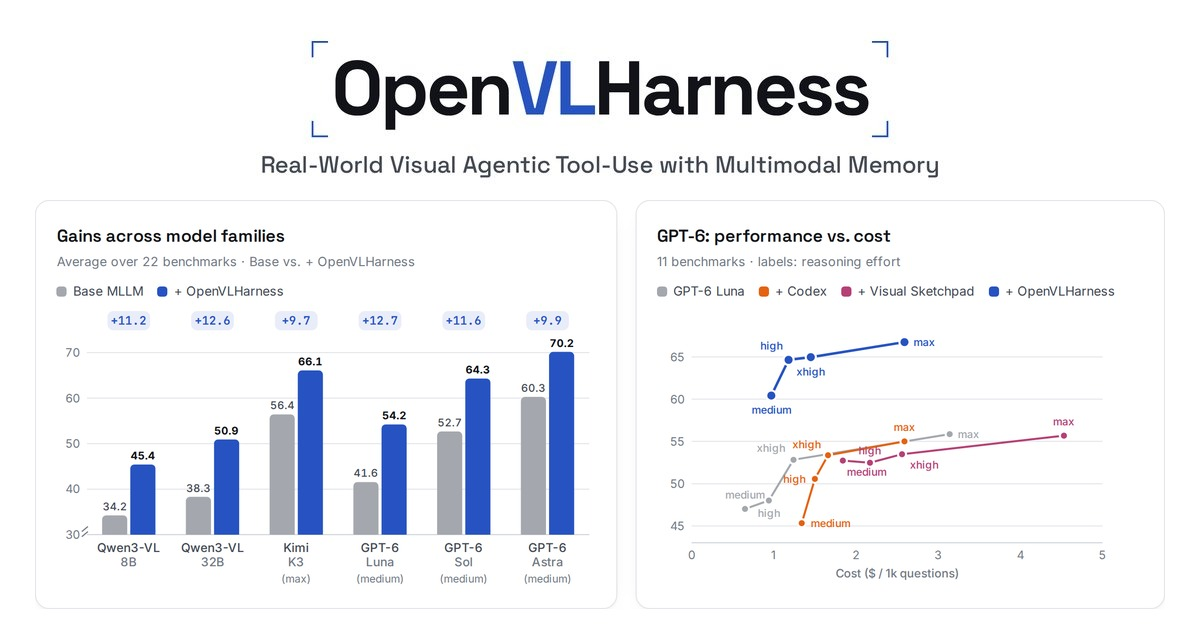
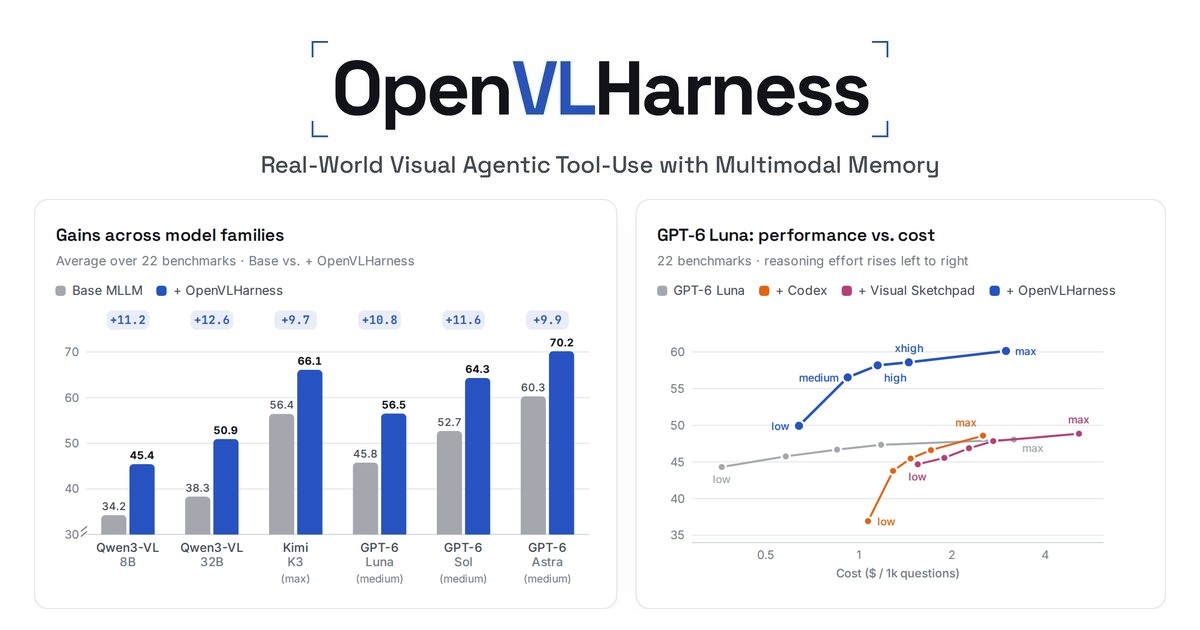
Effort chart: full splits of all 22 benchmarks at five efforts
The GPT-6 Luna performance-vs-cost card now shows the full-split sweep (low,
medium, high, xhigh, max on all 22 benchmarks) instead of the 11-benchmark,
<=500-question study. Cost uses a log axis as in the paper's Fig. 1c, and both
axis ranges follow the data. Every OpenVLHarness point is labelled; the baselines
only at their endpoints, since each curve rises monotonically in cost. Rebuilds
og.jpg from the page and adds scripts/shot_hero.py (light and dark hero
screenshots for the code repository README) and scripts/build_og.py.
Bumps main.js?v and data.js?v.

diff --git a/static/js/main.js b/static/js/main.js
@@ -224,24 +224,32 @@
   /* ================================================================ HERO: score vs. cost (paper Fig. 1c) */
   const lg = $('#paretoLegend');
   D.EFFORT.forEach(s => lg.appendChild(H('span', {}, `<i style="background:var(${s.color})"></i>${s.name}`)));
-  // effort-label placement per series and point: [dx, dy, anchor]
+  // effort-label placement per series and point: [dx, dy, anchor]; null = no label. Every OpenVLHarness point is
+  // labelled; the clustered baselines only at their endpoints (low, max), since each curve rises monotonically in cost.
   const ELAB = {
-    base: [[0, -10, 'middle'], [0, 16, 'middle'], [-8, -8, 'end'], [8, 4, 'start']],
-    codex: [[9, 4, 'start'], [-9, 4, 'end'], [-7, -7, 'end'], [0, -10, 'middle']],
-    vs: [[4, 15, 'start'], [0, -8, 'middle'], [8, 14, 'start'], [0, -10, 'middle']],
-    ours: [[0, 18, 'middle'], [-6, -10, 'end'], [0, 18, 'middle'], [9, 4, 'start']],
+    base: [[0, 16, 'middle'], null, null, null, [8, 12, 'start']],
+    codex: [[9, 4, 'start'], null, null, null, [-6, -9, 'end']],
+    vs: [[0, 16, 'middle'], null, null, null, [0, -10, 'middle']],
+    ours: [[-9, 4, 'end'], [-9, 4, 'end'], [6, 16, 'start'], [0, -10, 'middle'], [9, 4, 'start']],
   };
   chart($('#heroPareto'), (el, W) => {
     const Hh = W < 480 ? 270 : 300;
     const m = { l: 34, r: 40, t: 14, b: 40 };
     const svg = S('svg', { viewBox: `0 0 ${W} ${Hh}`, height: Hh }, el);
-    const x = lin(0, 5, m.l, W - m.r);
-    const y = lin(43, 69, Hh - m.b, m.t);
-    [43, 45, 50, 55, 60, 65].forEach(v => {
-      S('line', { x1: m.l, x2: W - m.r, y1: y(v), y2: y(v), class: v === 43 ? 'base-line' : 'grid-line' }, svg);
-      if (v !== 43) S('text', { x: m.l - 7, y: y(v) + 4, 'text-anchor': 'end', class: 'ax-label', text: v }, svg);
+    // Log-scaled cost axis (as in the paper's Fig. 1c); both ranges follow the data.
+    const costs = D.EFFORT.flatMap(s => s.cost), scores = D.EFFORT.flatMap(s => s.score);
+    const cLo = Math.min(...costs) / 1.25, cHi = Math.max(...costs) * 1.2;
+    const x = v => m.l + (Math.log(v) - Math.log(cLo)) / (Math.log(cHi) - Math.log(cLo)) * (W - m.r - m.l);
+    const yLo = Math.floor(Math.min(...scores) - 2), yHi = Math.ceil(Math.max(...scores) + 3);
+    const y = lin(yLo, yHi, Hh - m.b, m.t);
+    const yTicks = [];
+    for (let v = Math.ceil((yLo + 1) / 5) * 5; v < yHi; v += 5) yTicks.push(v);
+    [yLo, ...yTicks].forEach(v => {
+      S('line', { x1: m.l, x2: W - m.r, y1: y(v), y2: y(v), class: v === yLo ? 'base-line' : 'grid-line' }, svg);
+      if (v !== yLo) S('text', { x: m.l - 7, y: y(v) + 4, 'text-anchor': 'end', class: 'ax-label', text: v }, svg);
     });
-    [0, 1, 2, 3, 4, 5].forEach(v => S('text', { x: x(v), y: Hh - m.b + 16, 'text-anchor': 'middle', class: 'ax-label', text: v }, svg));
+    [0.25, 0.5, 1, 2, 4, 8].filter(v => v >= cLo && v <= cHi)
+      .forEach(v => S('text', { x: x(v), y: Hh - m.b + 16, 'text-anchor': 'middle', class: 'ax-label', text: v }, svg));
     S('text', { x: (m.l + W - m.r) / 2, y: Hh - 6, 'text-anchor': 'middle', class: 'ax-title', text: 'Cost ($ / 1k questions)' }, svg);
     D.EFFORT.forEach((s, si) => {
       const isOurs = s.key === 'ours';
@@ -250,8 +258,11 @@
       s.cost.forEach((c, i) => {
         const cx = x(c), cy = y(s.score[i]);
         S('circle', { cx, cy, r: isOurs ? 5 : 4, class: 'anim-pop', style: `fill:var(${s.color});stroke:var(--surface);stroke-width:2;transition-delay:${400 + si * 150 + i * 110}ms` }, svg);
-        const [dx, dy, an] = ELAB[s.key][i];
-        S('text', { x: cx + dx, y: cy + dy, 'text-anchor': an, class: 'eff-label anim-fade', style: `fill:var(${s.color});transition-delay:${900 + si * 150}ms`, text: D.EFFORTS[i] }, svg);
+        const lab = (ELAB[s.key] || [])[i];
+        if (lab) {
+          const [dx, dy, an] = lab;
+          S('text', { x: cx + dx, y: cy + dy, 'text-anchor': an, class: 'eff-label anim-fade', style: `fill:var(${s.color});transition-delay:${900 + si * 150}ms`, text: D.EFFORTS[i] }, svg);
+        }
         const hit = S('circle', { cx, cy, r: 11, fill: 'transparent' }, svg);
         hover(hit, `<b>${s.name}</b> · ${D.EFFORTS[i]} effort<br>score <b>${s.score[i].toFixed(2)}</b> · $${c.toFixed(2)} / 1k questions`);
       });

diff --git a/static/js/data.js b/static/js/data.js
@@ -1,6 +1,6 @@
 /* All numbers transcribed from the paper.
    Table 1 (Qwen3-VL, GPT-6 Luna/Astra), Table 6 (GPT-5, GPT-6 Sol, Kimi K3); 22 datasets, Table 2 (ablation),
-   Table 8 (training-based baselines), Table 12 (reasoning effort), Table 20 (remedy channels). */
+   Table 8 (training-based baselines), Tables 12-13 (reasoning effort, full splits), remedy channels. */
 window.OVH = (function () {
   const DOMAINS = [
     { name: 'Counting & Grounding', short: 'Count & Ground', rows: ['CountQA', 'FSC-147', 'OdinW-13-All', 'FSCD-147', 'FSCD-LVIS'] },
@@ -64,13 +64,13 @@ Average|34.24 31.80 30.49 45.41|38.30 36.79 35.95 50.92|45.76 45.55 43.78 56.52|
     return { id, name: g.name, base: TABLE.Average[id].Base.v, ours: TABLE.Average[id].Ours.v };
   });
 
-  // Table 12: GPT-6 Luna, 11 datasets, reasoning effort medium/high/xhigh/max
-  const EFFORTS = ['medium', 'high', 'xhigh', 'max'];
+  // Paper Table {tab:luna_effort_scaling}: GPT-6 Luna, full splits of all 22 benchmarks, reasoning effort low/medium/high/xhigh/max
+  const EFFORTS = ['low', 'medium', 'high', 'xhigh', 'max'];
   const EFFORT = [
-    { key: 'base', name: 'GPT-6 Luna', color: '--s-base', score: [47.01, 48.01, 52.83, 55.87], cost: [0.65, 0.94, 1.24, 3.14] },
-    { key: 'codex', name: '+ Codex', color: '--s-codex', score: [45.32, 50.57, 53.37, 55.01], cost: [1.34, 1.50, 1.66, 2.59] },
-    { key: 'vs', name: '+ Visual Sketchpad', color: '--s-vs', score: [52.73, 52.48, 53.49, 55.69], cost: [1.84, 2.17, 2.56, 4.53] },
-    { key: 'ours', name: '+ OpenVLHarness', color: '--s-ours', score: [60.43, 64.66, 64.98, 66.76], cost: [0.97, 1.18, 1.45, 2.59] },
+    { key: 'base', name: 'GPT-6 Luna', color: '--s-base', score: [44.31, 45.76, 46.68, 47.33, 48.04], cost: [0.36, 0.58, 0.85, 1.18, 3.17] },
+    { key: 'codex', name: '+ Codex', color: '--s-codex', score: [36.92, 43.78, 45.46, 46.61, 48.58], cost: [1.07, 1.29, 1.47, 1.71, 2.52] },
+    { key: 'vs', name: '+ Visual Sketchpad', color: '--s-vs', score: [44.67, 45.55, 46.86, 47.83, 48.84], cost: [1.55, 1.89, 2.27, 2.72, 5.15] },
+    { key: 'ours', name: '+ OpenVLHarness', color: '--s-ours', score: [49.92, 56.52, 58.16, 58.57, 60.12], cost: [0.64, 0.92, 1.15, 1.45, 2.99] },
   ];
 
   // Harness comparisons (Table 1 averages + Table 8)

diff --git a/index.html b/index.html
@@ -12,7 +12,7 @@
   <meta property="og:image" content="https://openvlharness.github.io/static/og.jpg">
   <meta property="og:image:width" content="1200">
   <meta property="og:image:height" content="630">
-  <meta property="og:image:alt" content="OpenVLHarness: average gains across six model families and GPT-6 performance vs. cost">
+  <meta property="og:image:alt" content="OpenVLHarness: average gains across six model families and GPT-6 Luna performance vs. cost">
   <meta name="twitter:card" content="summary_large_image">
   <meta name="twitter:title" content="OpenVLHarness: Real-World Visual Agentic Tool-Use with Multimodal Memory">
   <meta name="twitter:description" content="A capability layer + persistent multimodal memory lifts six MLLM backbones by 9.7–12.6 points across 22 benchmarks.">
@@ -132,9 +132,9 @@
         <div class="chart" id="heroBars" role="img" aria-label="Grouped bar chart: average score of six backbones with and without OpenVLHarness"></div>
       </div>
       <div class="card chart-card reveal">
-        <div class="chart-title">GPT-6: performance vs. cost <span class="chart-sub">11 benchmarks · labels: reasoning effort</span></div>
+        <div class="chart-title">GPT-6 Luna: performance vs. cost <span class="chart-sub">22 benchmarks · reasoning effort rises left to right</span></div>
         <div class="legend" id="paretoLegend"></div>
-        <div class="chart" id="heroPareto" role="img" aria-label="Line chart of average score versus model-token cost for four methods across four reasoning-effort settings"></div>
+        <div class="chart" id="heroPareto" role="img" aria-label="Line chart of average score versus model-token cost for four methods across five reasoning-effort settings"></div>
       </div>
     </div>
   </div>
@@ -476,9 +476,9 @@
 </footer>
 
 <div class="tip" id="tip"></div>
-<script src="static/js/data.js?v=20"></script>
+<script src="static/js/data.js?v=21"></script>
 <script src="static/js/examples.js?v=12"></script>
-<script src="static/js/main.js?v=44"></script>
+<script src="static/js/main.js?v=45"></script>
 <script src="static/js/player.js?v=20"></script>
 <script type="module" src="static/js/demo.js?v=14"></script>
 </body>

diff --git a/scripts/shot_hero.py b/scripts/shot_hero.py
@@ -1,0 +1,41 @@
+"""Screenshot the hero charts (light and dark) for the code repository's README teaser.
+
+Usage: python scripts/shot_hero.py <site_dir> <out_dir> [scale]   (needs Playwright with Chromium)
+Writes hero_light.png and hero_dark.png at `scale` device pixels per CSS pixel (README uses 4). The site picks its
+theme from localStorage['ovh-theme'], so each theme is set there before the page loads. Exits non-zero if the
+page logs a JavaScript error.
+"""
+import sys
+from pathlib import Path
+from playwright.sync_api import sync_playwright
+
+site, out_dir = Path(sys.argv[1]), Path(sys.argv[2])
+scale = int(sys.argv[3]) if len(sys.argv) > 3 else 4
+out_dir.mkdir(parents=True, exist_ok=True)
+errors = []
+with sync_playwright() as p:
+    browser = p.chromium.launch()
+    for theme in ("light", "dark"):
+        context = browser.new_context(viewport={"width": 1280, "height": 1000}, device_scale_factor=scale,
+                                      reduced_motion="reduce", color_scheme=theme)
+        context.add_init_script(f"try {{ localStorage.setItem('ovh-theme', '{theme}'); }} catch (e) {{}}")
+        page = context.new_page()
+        page.on("pageerror", lambda e: errors.append(f"{theme}: {e}"))
+        page.goto((site / "index.html").resolve().as_uri(), wait_until="networkidle")
+        page.evaluate("document.fonts.ready")
+        charts = page.locator(".hero-charts")
+        charts.scroll_into_view_if_needed()
+        page.wait_for_timeout(2500)  # charts animate in once scrolled into view
+        page.mouse.move(0, 0)
+        box = charts.bounding_box()
+        pad = 14
+        page.screenshot(path=str(out_dir / f"hero_{theme}.png"), animations="disabled", full_page=True,
+                        clip={"x": box["x"] - pad, "y": box["y"] + page.evaluate("window.scrollY") - pad,
+                              "width": box["width"] + 2 * pad, "height": box["height"] + 2 * pad})
+        context.close()
+    browser.close()
+# demo.js is an ES module that may not load from file://; it does not affect the hero charts.
+errors = [e for e in errors if "demo" not in e.lower()]
+if errors:
+    sys.exit("page errors:\n" + "\n".join(errors))
+print("wrote", out_dir / "hero_light.png", out_dir / "hero_dark.png")

diff --git a/scripts/build_og.py b/scripts/build_og.py
@@ -1,0 +1,37 @@
+"""Rebuild static/og.jpg (1200x630 link preview): the existing title band plus a fresh light-theme hero screenshot.
+
+The title band (wordmark and tagline, the top BAND pixels of the current og.jpg) does not depend on any data, so it is
+kept; the two hero chart cards below it are re-rendered from index.html so the preview matches data.js.
+Usage: python scripts/build_og.py <site_dir>   (needs Playwright with Chromium and Pillow)
+"""
+import io
+import sys
+from pathlib import Path
+from PIL import Image
+from playwright.sync_api import sync_playwright
+
+site = Path(sys.argv[1]).resolve()
+og_path = site / "static" / "og.jpg"
+BAND, W, H, MARGIN = 190, 1200, 630, 34
+og = Image.open(og_path).convert("RGB")
+canvas = Image.new("RGB", (W, H), og.getpixel((5, H - 5)))
+canvas.paste(og.crop((0, 0, W, BAND)), (0, 0))
+with sync_playwright() as p:
+    browser = p.chromium.launch()
+    context = browser.new_context(viewport={"width": 1180, "height": 1000}, device_scale_factor=2,
+                                  reduced_motion="reduce", color_scheme="light")
+    context.add_init_script("try { localStorage.setItem('ovh-theme', 'light'); } catch (e) {}")
+    page = context.new_page()
+    page.goto((site / "index.html").as_uri(), wait_until="networkidle")
+    charts = page.locator(".hero-charts")
+    charts.scroll_into_view_if_needed()
+    page.wait_for_timeout(2500)
+    page.mouse.move(0, 0)
+    shot = Image.open(io.BytesIO(charts.screenshot(animations="disabled"))).convert("RGB")
+    browser.close()
+avail_w, avail_h = W - 2 * MARGIN, H - BAND - 20
+scale = min(avail_w / shot.width, avail_h / shot.height)
+shot = shot.resize((round(shot.width * scale), round(shot.height * scale)), Image.LANCZOS)
+canvas.paste(shot, ((W - shot.width) // 2, BAND + (avail_h - shot.height) // 2 + 4))
+canvas.save(og_path, quality=90)
+print("wrote", og_path, canvas.size)

diff --git a/README.md b/README.md
@@ -17,7 +17,8 @@ Search `index.html` for `TODO(`:
 
 Examples gallery: `static/js/examples.js` + `static/examples/` are generated from the `paper_examples` bundles in mini-vlm-toolkit (branch `bryan/sandbox`). Unzip the bundles into one folder and run `python scripts/build_examples.py <folder>` to regenerate.
 
-All chart numbers live in `static/js/data.js` (transcribed from Tables 1, 2, 6, 8, 12, 20 of the paper).
+All chart numbers live in `static/js/data.js` (transcribed from the paper's tables; the effort chart is generated from the
+full-split GPT-6 Luna effort sweep by `luna_full/update_site_effort.py` in OpenVLHarness-release-check).
 After editing CSS/JS, bump the `?v=` query in `index.html` so browsers pick up the change.
 
 Live demo: `static/js/demo.js` is the client; its backend lives in [`demo_server/`](demo_server/README.md) (Gradio app on the released `openvlharness` package, GPU tool budget, launch scripts). Append `?demo_server=<url>` to the page URL to test against another backend.
